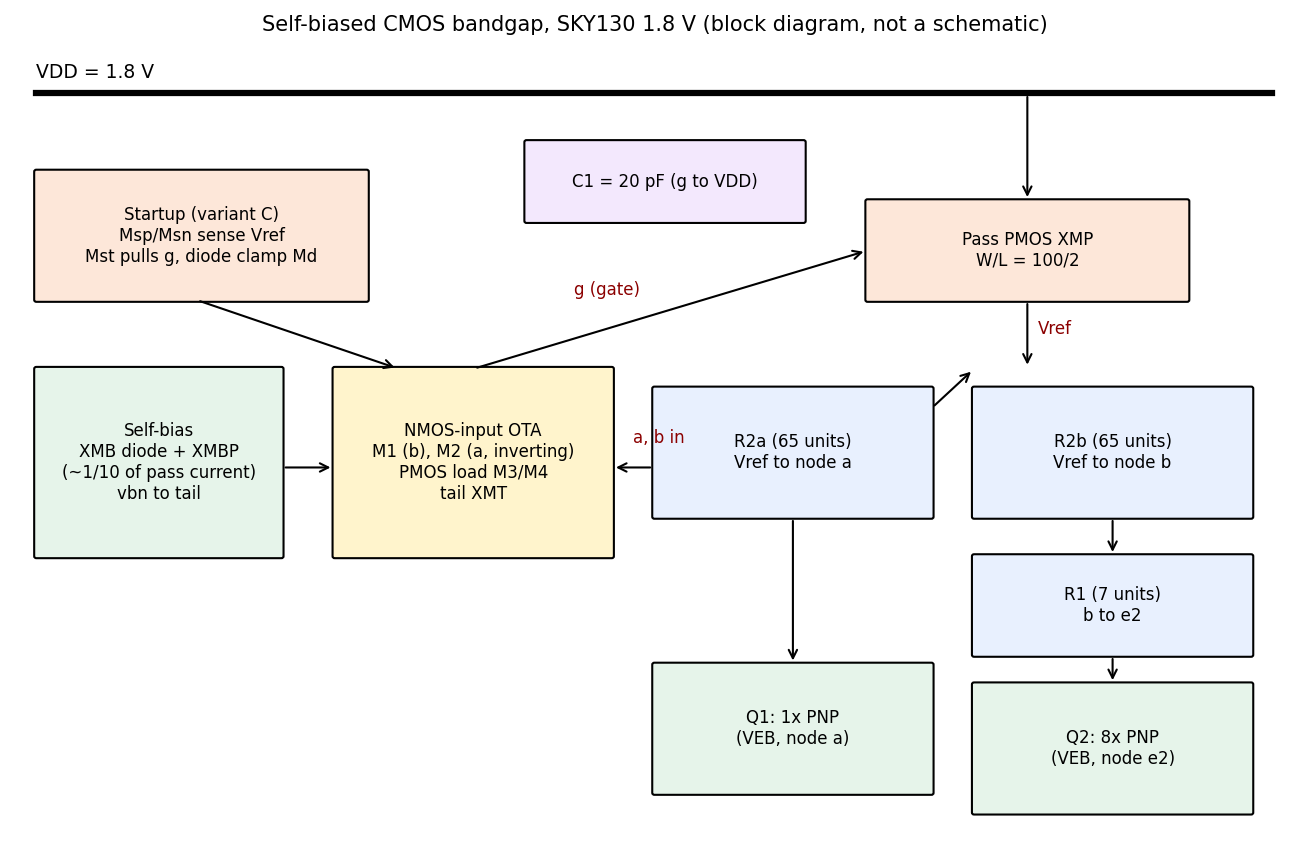
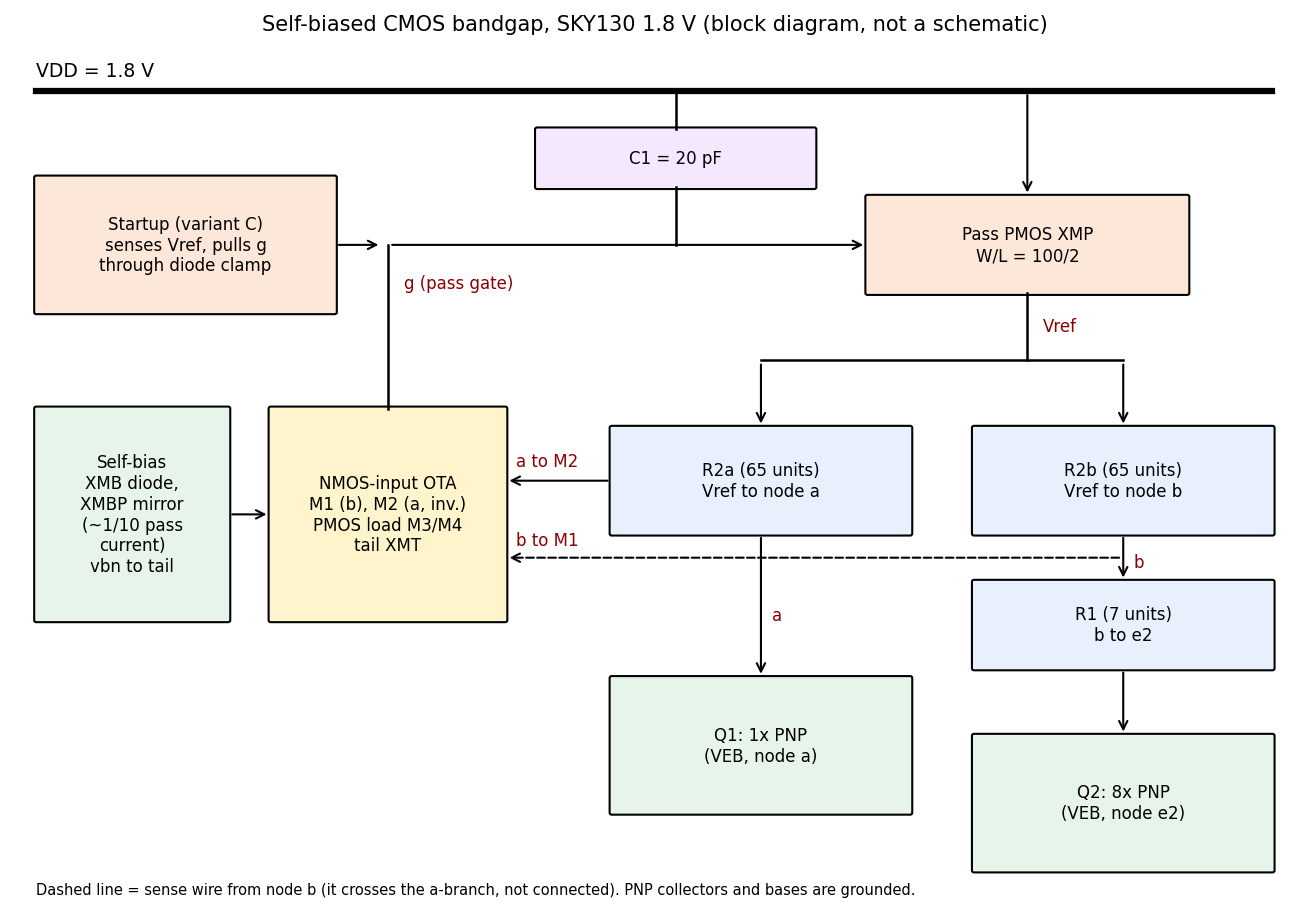
Fix diagram, correct captions and min-VDD row, add -40 C supply overshoot

diff --git a/scripts/fix_readme.py b/scripts/fix_readme.py
@@ -1,0 +1,104 @@
+import os, sys, subprocess
+import matplotlib
+matplotlib.use("Agg")
+import matplotlib.pyplot as plt
+from matplotlib.patches import FancyBboxPatch
+
+ROOT = os.path.expanduser("~/analog/bgr-sky130")
+BR = f"{ROOT}/scripts/build_readme.py"
+IMG = f"{ROOT}/docs/img"
+
+src = open(BR).read()
+
+EDITS = [
+ (r'''fig.savefig(f"{IMG}/architecture.png", dpi=150, bbox_inches="tight")''',
+  r'''fig.savefig("/tmp/_old_architecture.png", dpi=40)'''),
+ (r'''print("wrote docs/img/architecture.png")''',
+  r'''print("old diagram skipped")'''),
+ (r'''("step6c_supply.png", "Vref vs supply, tt (step 6c)."),''',
+  r'''("step6c_supply.png", "Vref vs VDD at -40 / 27 / 125 C (step 6c). At -40 C Vref overshoots to about 1.33 V near VDD = 1.36 V before settling (read from the plot); all three curves are flat at 1.8 V."),'''),
+ (r'''("step7b_cold_startup.png", "Cold (-40 C) 1 ms-ramp startup, showing the plateau and recovery (step 7b)."),''',
+  r'''("step7b_cold_startup.png", "-40 C, 1 ms ramp, tt (left) and ss (right), clamp-diode width W = 2 / 4 / 8 (step 7b). Vref jumps to about 0.7 V, sits on a plateau, then recovers to 1.2 V; wider clamp diodes recover later."),'''),
+ (r'''("step7e_pm_corners.png", "Loop-gain results over corners and temperatures, C1 = 20 pF, CL = 10 pF (step 7e)."),''',
+  r'''("step7e_pm_corners.png", "Loop gain over corners and temperatures, C1 = 20 pF, CL = 10 pF (step 7e). 15 curves; the plot's color cycle repeats, so individual curves cannot be told apart, but they lie close together."),'''),
+ (r'''("step8b_montecarlo.png", "Sensitivity-based Monte Carlo, tt, assumed AVT (step 8b)."),''',
+  r'''("step8b_montecarlo.png", "Sensitivity-based Monte Carlo, tt, assumed AVT = 5 mV*um (step 8b). Untrimmed versus 4-bit and 6-bit ratio-only Vref trim: Vref tightens but TC spreads (p99 71.9 ppm/C for 6-bit), the failure that led to offset-then-ratio trim (strategy c, in the table below, not plotted)."),'''),
+ (r'''| Min VDD, Vref within 0.5% | 1.26-1.30 V | tt (step 6c) |''',
+  r'''| Min VDD, Vref within 0.5% | 1.26-1.30 V at 27 and 125 C; about 1.46 V at -40 C (read from the plot, estimate) | tt (step 6c); at -40 C Vref overshoots to about 1.33 V near VDD = 1.36 V |'''),
+ (r'''- Load regulation slope grows strongly with temperature (-54.6 mV/mA at 125 C). Output impedance was not measured separately.''',
+  r'''- Load regulation slope grows strongly with temperature (-54.6 mV/mA at 125 C). Output impedance was not measured separately.
+- The DC supply sweep at -40 C overshoots to about 1.33 V near VDD = 1.36 V (read from the plot). Vref is correct at 1.8 V and above about 1.46 V, but the low-supply behaviour at cold is not a clean monotonic rise.'''),
+]
+
+for old, new in EDITS:
+    if src.count(old) != 1:
+        print("PATTERN NOT FOUND (nothing written):", old[:70])
+        sys.exit(1)
+    src = src.replace(old, new)
+open(BR, "w").write(src)
+print("patched build_readme.py:", len(EDITS), "edits")
+def box(ax, x, y, w, h, text, fc):
+    ax.add_patch(FancyBboxPatch((x, y), w, h, boxstyle="round,pad=0.02", fc=fc, ec="k"))
+    ax.text(x + w / 2, y + h / 2, text, ha="center", va="center", fontsize=8)
+
+def arrow(ax, x0, y0, x1, y1, ls="-"):
+    ax.annotate("", xy=(x1, y1), xytext=(x0, y0),
+                arrowprops=dict(arrowstyle="->", ls=ls))
+
+def line(ax, xs, ys):
+    ax.plot(xs, ys, "k", lw=1.2)
+
+def lab(ax, x, y, t):
+    ax.text(x, y, t, fontsize=8, color="darkred")
+
+fig, ax = plt.subplots(figsize=(11, 7.5))
+ax.set_xlim(0, 12); ax.set_ylim(0, 9); ax.axis("off")
+ax.plot([0.2, 11.8], [8.5, 8.5], "k", lw=3)
+ax.text(0.2, 8.65, "VDD = 1.8 V", fontsize=9)
+
+box(ax, 8.0, 6.4, 3.0, 1.0, "Pass PMOS XMP\nW/L = 100/2", "#fde7d9")
+arrow(ax, 9.5, 8.5, 9.5, 7.4)
+line(ax, [9.5, 9.5], [6.4, 5.7])
+lab(ax, 9.65, 6.0, "Vref")
+line(ax, [7.0, 10.4], [5.7, 5.7])
+arrow(ax, 7.0, 5.7, 7.0, 5.0)
+arrow(ax, 10.4, 5.7, 10.4, 5.0)
+
+box(ax, 5.6, 3.9, 2.8, 1.1, "R2a (65 units)\nVref to node a", "#e8f0fe")
+box(ax, 9.0, 3.9, 2.8, 1.1, "R2b (65 units)\nVref to node b", "#e8f0fe")
+box(ax, 9.0, 2.5, 2.8, 0.9, "R1 (7 units)\nb to e2", "#e8f0fe")
+box(ax, 5.6, 1.0, 2.8, 1.4, "Q1: 1x PNP\n(VEB, node a)", "#e6f4ea")
+box(ax, 9.0, 0.4, 2.8, 1.4, "Q2: 8x PNP\n(VEB, node e2)", "#e6f4ea")
+arrow(ax, 7.0, 3.9, 7.0, 2.4)
+lab(ax, 7.1, 3.0, "a")
+arrow(ax, 10.4, 3.9, 10.4, 3.4)
+lab(ax, 10.5, 3.55, "b")
+arrow(ax, 10.4, 2.5, 10.4, 1.8)
+
+box(ax, 2.4, 3.0, 2.2, 2.2, "NMOS-input OTA\nM1 (b), M2 (a, inv.)\nPMOS load M3/M4\ntail XMT", "#fff4cc")
+arrow(ax, 5.6, 4.45, 4.6, 4.45)
+lab(ax, 4.7, 4.6, "a to M2")
+ax.annotate("", xy=(4.6, 3.65), xytext=(10.4, 3.65),
+            arrowprops=dict(arrowstyle="->", ls="--"))
+lab(ax, 4.7, 3.78, "b to M1")
+
+box(ax, 0.2, 3.0, 1.8, 2.2, "Self-bias\nXMB diode,\nXMBP mirror\n(~1/10 pass\ncurrent)\nvbn to tail", "#e6f4ea")
+arrow(ax, 2.0, 4.1, 2.4, 4.1)
+
+line(ax, [3.5, 3.5], [5.2, 6.9])
+arrow(ax, 3.5, 6.9, 8.0, 6.9)
+lab(ax, 3.65, 6.45, "g (pass gate)")
+box(ax, 4.9, 7.5, 2.6, 0.6, "C1 = 20 pF", "#f3e8fd")
+line(ax, [6.2, 6.2], [7.5, 6.9])
+line(ax, [6.2, 6.2], [8.1, 8.5])
+box(ax, 0.2, 6.2, 2.8, 1.4, "Startup (variant C)\nsenses Vref, pulls g\nthrough diode clamp", "#fde7d9")
+arrow(ax, 3.0, 6.9, 3.45, 6.9)
+
+ax.text(0.2, 0.15, "Dashed line = sense wire from node b (it crosses the a-branch, not connected). PNP collectors and bases are grounded.", fontsize=7)
+ax.set_title("Self-biased CMOS bandgap, SKY130 1.8 V (block diagram, not a schematic)", fontsize=10)
+fig.savefig(f"{IMG}/architecture.png", dpi=150, bbox_inches="tight")
+plt.close(fig)
+print("wrote docs/img/architecture.png")
+
+r = subprocess.run([sys.executable, BR], capture_output=True, text=True)
+print(r.stdout, r.stderr)

diff --git a/scripts/build_readme.py b/scripts/build_readme.py
@@ -42,19 +42,19 @@ arrow(ax, 2.5, 3.9, 3.0, 3.9)
 box(ax, 0.2, 5.6, 3.1, 1.3, "Startup (variant C)\nMsp/Msn sense Vref\nMst pulls g, diode clamp Md", "#fde7d9")
 arrow(ax, 1.7, 5.6, 3.6, 4.9)
 ax.set_title("Self-biased CMOS bandgap, SKY130 1.8 V (block diagram, not a schematic)", fontsize=10)
-fig.savefig(f"{IMG}/architecture.png", dpi=150, bbox_inches="tight")
+fig.savefig("/tmp/_old_architecture.png", dpi=40)
 plt.close(fig)
-print("wrote docs/img/architecture.png")
+print("old diagram skipped")
 
 # ---------- copy plots ----------
 PLOTS = [
     ("step6c_temp.png", "Vref vs temperature, tt, VDD 1.8 V (step 6c)."),
-    ("step6c_supply.png", "Vref vs supply, tt (step 6c)."),
+    ("step6c_supply.png", "Vref vs VDD at -40 / 27 / 125 C (step 6c). At -40 C Vref overshoots to about 1.33 V near VDD = 1.36 V before settling (read from the plot); all three curves are flat at 1.8 V."),
     ("step7c_corners_dc.png", "DC over process corners, ratio frozen at tt value (step 7c)."),
     ("step7d_ratio_sweep.png", "TC vs R2/R1 ratio per corner (step 7d)."),
-    ("step7e_pm_corners.png", "Loop-gain results over corners and temperatures, C1 = 20 pF, CL = 10 pF (step 7e)."),
-    ("step7b_cold_startup.png", "Cold (-40 C) 1 ms-ramp startup, showing the plateau and recovery (step 7b)."),
-    ("step8b_montecarlo.png", "Sensitivity-based Monte Carlo, tt, assumed AVT (step 8b)."),
+    ("step7e_pm_corners.png", "Loop gain over corners and temperatures, C1 = 20 pF, CL = 10 pF (step 7e). 15 curves; the plot's color cycle repeats, so individual curves cannot be told apart, but they lie close together."),
+    ("step7b_cold_startup.png", "-40 C, 1 ms ramp, tt (left) and ss (right), clamp-diode width W = 2 / 4 / 8 (step 7b). Vref jumps to about 0.7 V, sits on a plateau, then recovers to 1.2 V; wider clamp diodes recover later."),
+    ("step8b_montecarlo.png", "Sensitivity-based Monte Carlo, tt, assumed AVT = 5 mV*um (step 8b). Untrimmed versus 4-bit and 6-bit ratio-only Vref trim: Vref tightens but TC spreads (p99 71.9 ppm/C for 6-bit), the failure that led to offset-then-ratio trim (strategy c, in the table below, not plotted)."),
 ]
 have = []
 for f, cap in PLOTS:
@@ -95,7 +95,7 @@ Conditions are given in every row. No formal targets were fixed in advance excep
 | Quiescent current | 13.51 uA (27 C), 19.93 uA (125 C) | tt, VDD 1.8 V |
 | Line regulation | -0.099 / 0.020 / 0.160 mV/V | tt, 1.62-1.98 V, at -40 / 27 / 125 C |
 | Line regulation, all corners | within +-0.23 mV/V, except sf at -40 C: -0.356 mV/V | 7 corners, end points only |
-| Min VDD, Vref within 0.5% | 1.26-1.30 V | tt (step 6c) |
+| Min VDD, Vref within 0.5% | 1.26-1.30 V at 27 and 125 C; about 1.46 V at -40 C (read from the plot, estimate) | tt (step 6c); at -40 C Vref overshoots to about 1.33 V near VDD = 1.36 V |
 | Vref over 7 corners, -40..125 C | 1.2011-1.2159 V | ratio frozen at tt value |
 | Loop phase margin | 61.4-65.3 deg | 5 corners x 3 temps, C1 20 pF, CL 10 pF, VDD 1.8 V; worst ff at -40 C |
 | Loop gain margin | 25.8-27.3 dB | same; unity-gain freq 0.129-0.157 MHz |
@@ -153,6 +153,7 @@ Untrimmed Vref sigma is 7.15 / 11.86 / 18.95 mV at AVT = 3 / 5 / 8; strategy c g
 - Cold slow-ramp startup delay of several hundred us with unknown mechanism. Startup at ff/sf/fs only at -40 C; not tested at 27/125 C, for the 10 us ramp at those corners, for ramps slower than 1 ms, or with process and R/C corners combined.
 - High noise (about 109 uVrms in 0.1-10 Hz at 27 C), mostly 1/f. The likely source (OTA input pair and load, gained about 11x) is a hypothesis; noise was not split by device.
 - Load regulation slope grows strongly with temperature (-54.6 mV/mA at 125 C). Output impedance was not measured separately.
+- The DC supply sweep at -40 C overshoots to about 1.33 V near VDD = 1.36 V (read from the plot). Vref is correct at 1.8 V and above about 1.46 V, but the low-supply behaviour at cold is not a clean monotonic rise.
 - PSRR measured only at tt, 27 C, CL = 1 pF. No line or load transients.
 - No layout, no parasitic extraction, no DRC/LVS.
 - Monte Carlo is sensitivity-based with assumed AVT and load-offset weighting; no combined corner + mismatch; trim hardware not designed.

diff --git a/README.md b/README.md
@@ -27,7 +27,7 @@ Conditions are given in every row. No formal targets were fixed in advance excep
 | Quiescent current | 13.51 uA (27 C), 19.93 uA (125 C) | tt, VDD 1.8 V |
 | Line regulation | -0.099 / 0.020 / 0.160 mV/V | tt, 1.62-1.98 V, at -40 / 27 / 125 C |
 | Line regulation, all corners | within +-0.23 mV/V, except sf at -40 C: -0.356 mV/V | 7 corners, end points only |
-| Min VDD, Vref within 0.5% | 1.26-1.30 V | tt (step 6c) |
+| Min VDD, Vref within 0.5% | 1.26-1.30 V at 27 and 125 C; about 1.46 V at -40 C (read from the plot, estimate) | tt (step 6c); at -40 C Vref overshoots to about 1.33 V near VDD = 1.36 V |
 | Vref over 7 corners, -40..125 C | 1.2011-1.2159 V | ratio frozen at tt value |
 | Loop phase margin | 61.4-65.3 deg | 5 corners x 3 temps, C1 20 pF, CL 10 pF, VDD 1.8 V; worst ff at -40 C |
 | Loop gain margin | 25.8-27.3 dB | same; unity-gain freq 0.129-0.157 MHz |
@@ -50,7 +50,7 @@ Conditions are given in every row. No formal targets were fixed in advance excep
 
 ![step6c_temp.png](docs/img/step6c_temp.png)
 
-**Vref vs supply, tt (step 6c).**
+**Vref vs VDD at -40 / 27 / 125 C (step 6c). At -40 C Vref overshoots to about 1.33 V near VDD = 1.36 V before settling (read from the plot); all three curves are flat at 1.8 V.**
 
 ![step6c_supply.png](docs/img/step6c_supply.png)
 
@@ -62,15 +62,15 @@ Conditions are given in every row. No formal targets were fixed in advance excep
 
 ![step7d_ratio_sweep.png](docs/img/step7d_ratio_sweep.png)
 
-**Loop-gain results over corners and temperatures, C1 = 20 pF, CL = 10 pF (step 7e).**
+**Loop gain over corners and temperatures, C1 = 20 pF, CL = 10 pF (step 7e). 15 curves; the plot's color cycle repeats, so individual curves cannot be told apart, but they lie close together.**
 
 ![step7e_pm_corners.png](docs/img/step7e_pm_corners.png)
 
-**Cold (-40 C) 1 ms-ramp startup, showing the plateau and recovery (step 7b).**
+**-40 C, 1 ms ramp, tt (left) and ss (right), clamp-diode width W = 2 / 4 / 8 (step 7b). Vref jumps to about 0.7 V, sits on a plateau, then recovers to 1.2 V; wider clamp diodes recover later.**
 
 ![step7b_cold_startup.png](docs/img/step7b_cold_startup.png)
 
-**Sensitivity-based Monte Carlo, tt, assumed AVT (step 8b).**
+**Sensitivity-based Monte Carlo, tt, assumed AVT = 5 mV*um (step 8b). Untrimmed versus 4-bit and 6-bit ratio-only Vref trim: Vref tightens but TC spreads (p99 71.9 ppm/C for 6-bit), the failure that led to offset-then-ratio trim (strategy c, in the table below, not plotted).**
 
 ![step8b_montecarlo.png](docs/img/step8b_montecarlo.png)
 
@@ -108,6 +108,7 @@ Untrimmed Vref sigma is 7.15 / 11.86 / 18.95 mV at AVT = 3 / 5 / 8; strategy c g
 - Cold slow-ramp startup delay of several hundred us with unknown mechanism. Startup at ff/sf/fs only at -40 C; not tested at 27/125 C, for the 10 us ramp at those corners, for ramps slower than 1 ms, or with process and R/C corners combined.
 - High noise (about 109 uVrms in 0.1-10 Hz at 27 C), mostly 1/f. The likely source (OTA input pair and load, gained about 11x) is a hypothesis; noise was not split by device.
 - Load regulation slope grows strongly with temperature (-54.6 mV/mA at 125 C). Output impedance was not measured separately.
+- The DC supply sweep at -40 C overshoots to about 1.33 V near VDD = 1.36 V (read from the plot). Vref is correct at 1.8 V and above about 1.46 V, but the low-supply behaviour at cold is not a clean monotonic rise.
 - PSRR measured only at tt, 27 C, CL = 1 pF. No line or load transients.
 - No layout, no parasitic extraction, no DRC/LVS.
 - Monte Carlo is sensitivity-based with assumed AVT and load-offset weighting; no combined corner + mismatch; trim hardware not designed.
